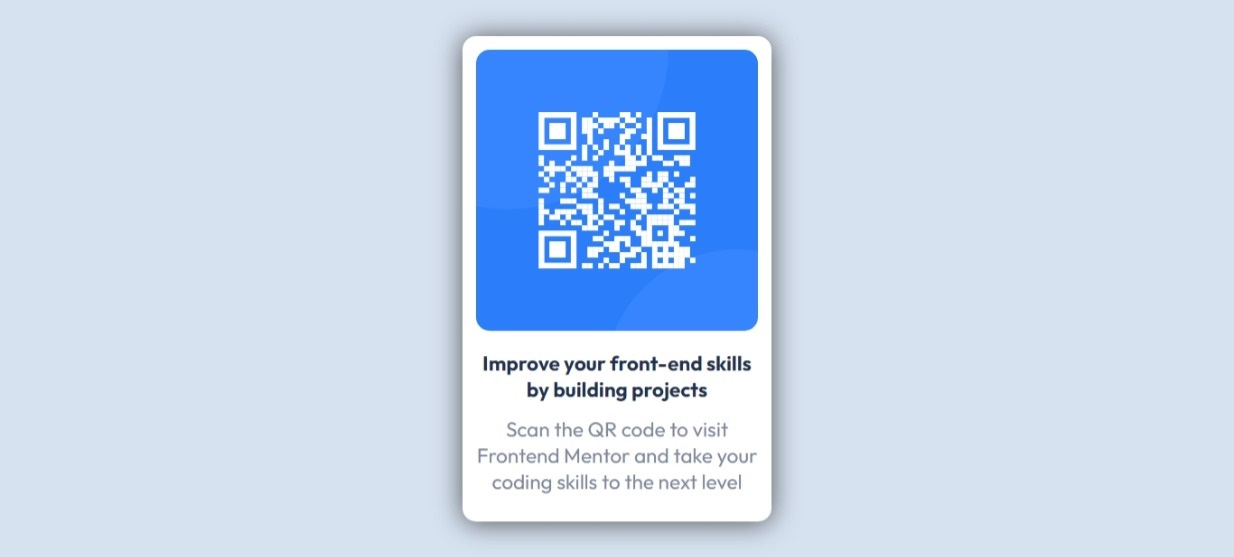
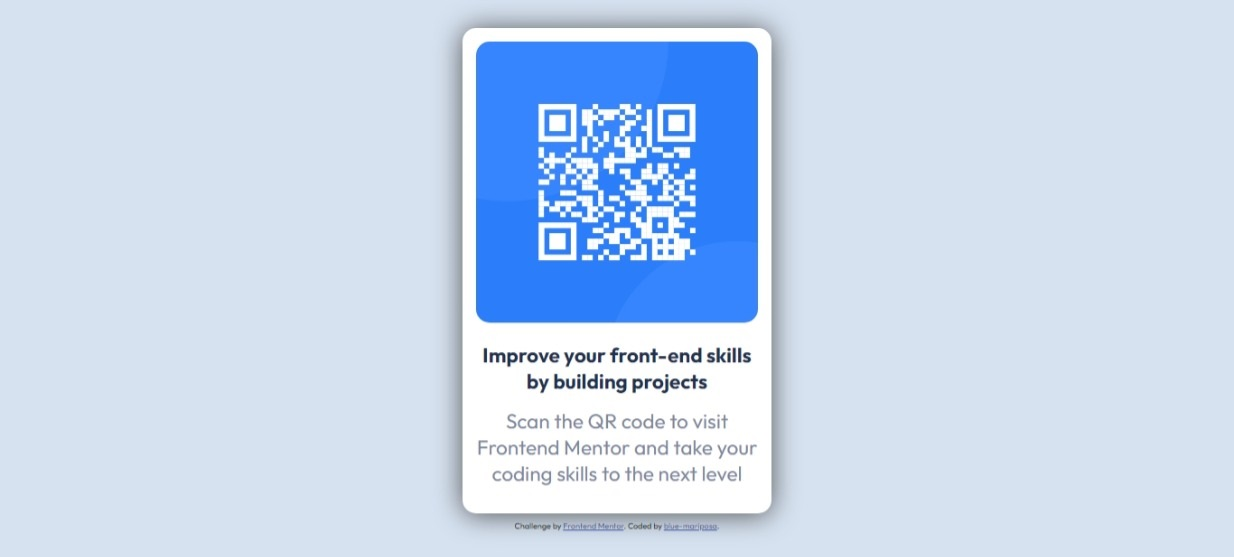
Add files via upload

diff --git a/css/qr-code.css b/css/qr-code.css
@@ -11,6 +11,7 @@ body {
     background-color: hsl(212, 45%, 89%);
     display: flex;
     justify-content: center;
+    flex-direction: column;
     align-items: center;
     overflow: hidden;
 }
@@ -48,6 +49,15 @@ img {
     padding-top: 10px;
     color: hsl(220, 15%, 55%);
     font-weight: 400;
+}
+
+.attribution {
+    margin-top: 8px;
+    font-size: 6px; 
+    text-align: center; 
+}
+.attribution a { 
+    color: hsl(228, 45%, 44%); 
 }
 
 /* Media queries */

diff --git a/index.html b/index.html
@@ -22,5 +22,9 @@
 			<p>Scan the QR code to visit Frontend Mentor and take your coding skills to the next level</p>
 		</section>
 	</main>
+	<footer class="attribution">
+		Challenge by <a href="https://www.frontendmentor.io?ref=challenge" target="_blank">Frontend Mentor</a>. 
+		Coded by <a href="#">blue-mariposa</a>.
+	</footer>
 </body>
 </html>
